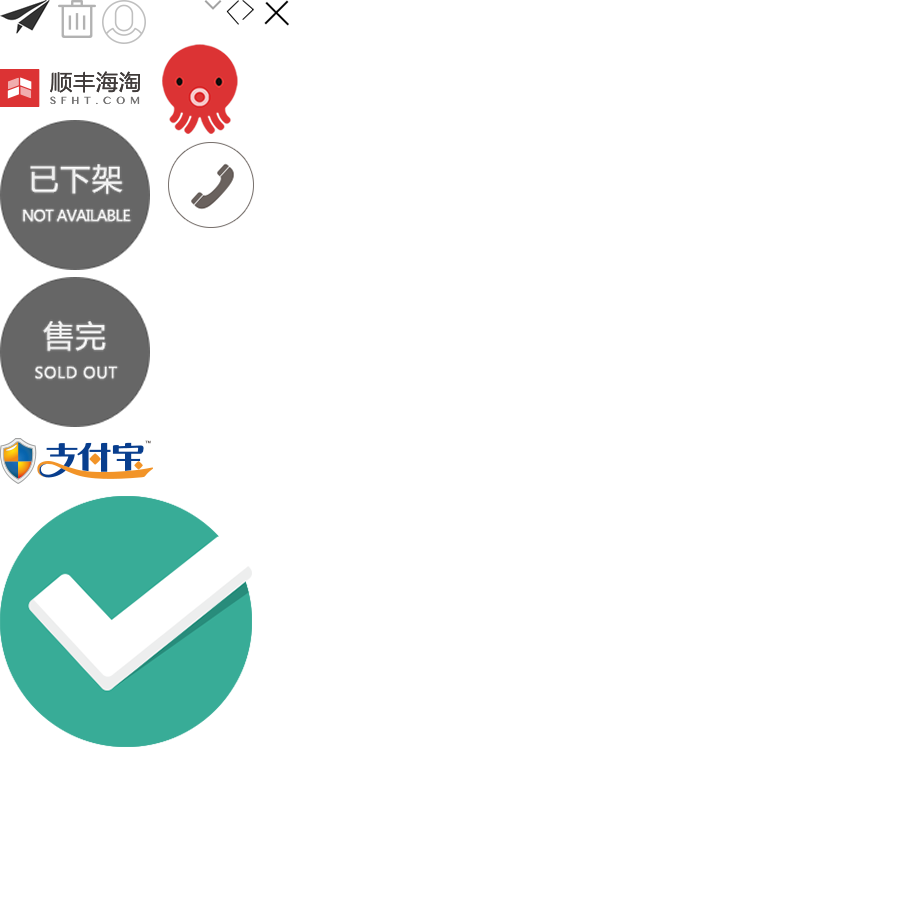
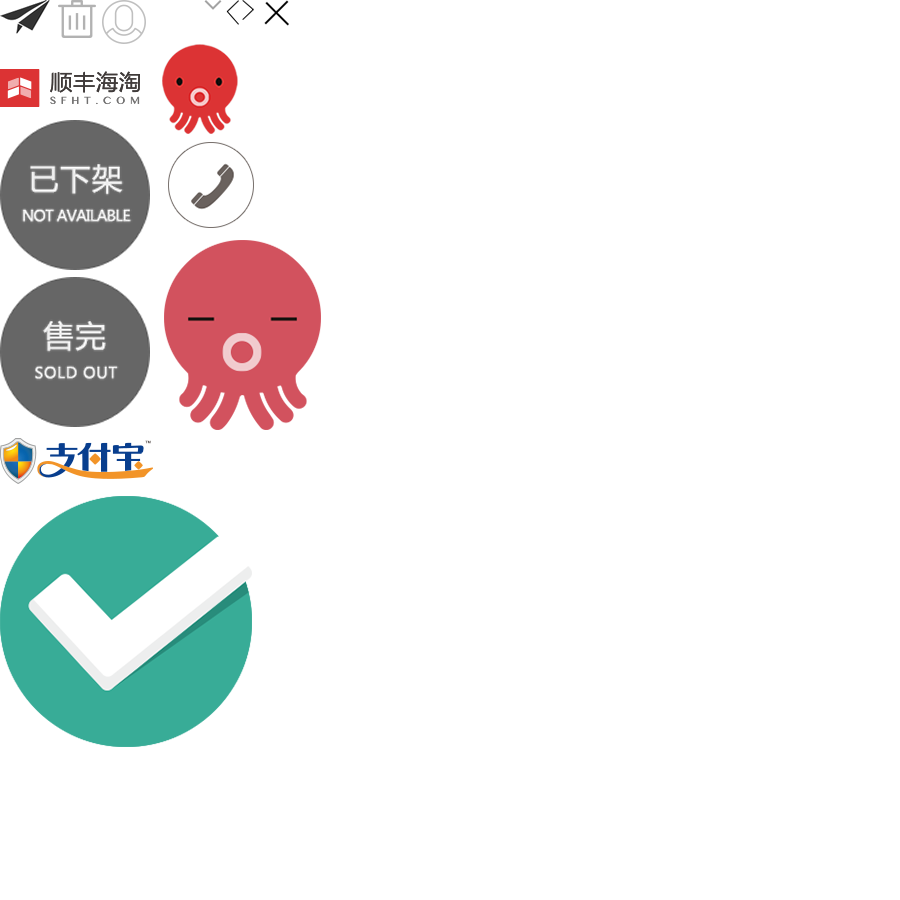
列表为空

Changed region(s): [[0.1556, 0.2489, 0.3733, 0.4978]]

diff --git a/app/static/orderlist-none.html b/app/static/orderlist-none.html
@@ -1,0 +1,30 @@
+<!DOCTYPE html>
+<html>
+<head>
+	<meta charset="UTF-8">
+	<meta name="viewport" content="width=device-width, initial-scale=1, maximum-scale=1, user-scalable=no">
+	<title>顺丰海淘详情页</title>
+	<link rel="stylesheet" href="css/style.css">
+
+</head>
+<body>
+	<!--订单列表-->
+	<section class="tab">
+		<div class="tab-h">
+			<ul class="clearfix">
+				<li class="active">未完成(5)</li>
+				<li>完成</li>
+			</ul>
+		</div>
+		<ul class="tab-b active orderlist">
+			<li class="orderlist-none">
+				<span class="icon icon16"></span>
+				<p>没有订单记录</p>
+			</li>
+		</ul>
+		<ul class="tab-b">
+			
+		</ul>
+	</section>
+	<!--订单列表-->
+</html>

diff --git a/app/static/css/style.css b/app/static/css/style.css
@@ -207,6 +207,11 @@ button{
   background-position: -132px 0;
   text-indent: -999em;
 }
+.icon16{
+  width: 79px;
+  height: 95px;
+  background-position: -82px -120px;
+}
 /*btn*/
 .btn{
   display:inline-block;
@@ -987,6 +992,14 @@ button{
 }
 .orderlist-r3c2 .btn{
   color: #000;
+}
+.orderlist .orderlist-none{
+  padding-top: 80px;
+  text-align: center;
+}
+.orderlist-none p{
+  font-size: 14px;
+  margin-top: 27px;
 }
 /*tab*/
 .tab-h{

diff --git a/app/static/common.html b/app/static/common.html
@@ -46,6 +46,7 @@
 	<span class="icon icon13"></span>
 	<span class="icon icon14"></span>
 	<span class="icon icon15">关闭</span>
+	<span class="icon icon16"></span>
 
 	<h2>btn</h2>
 	<button class="btn btn-normal">btn-normal</button>
